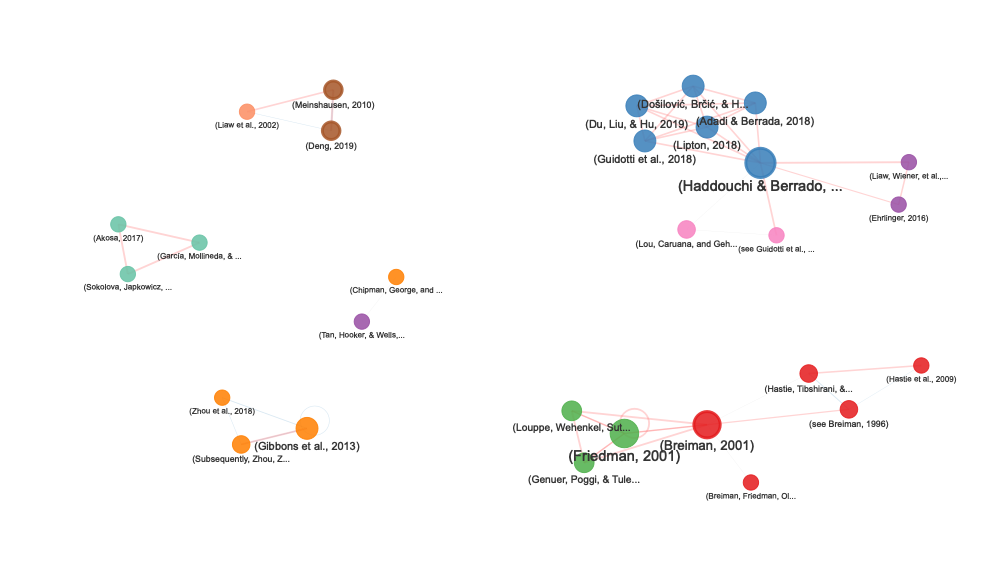
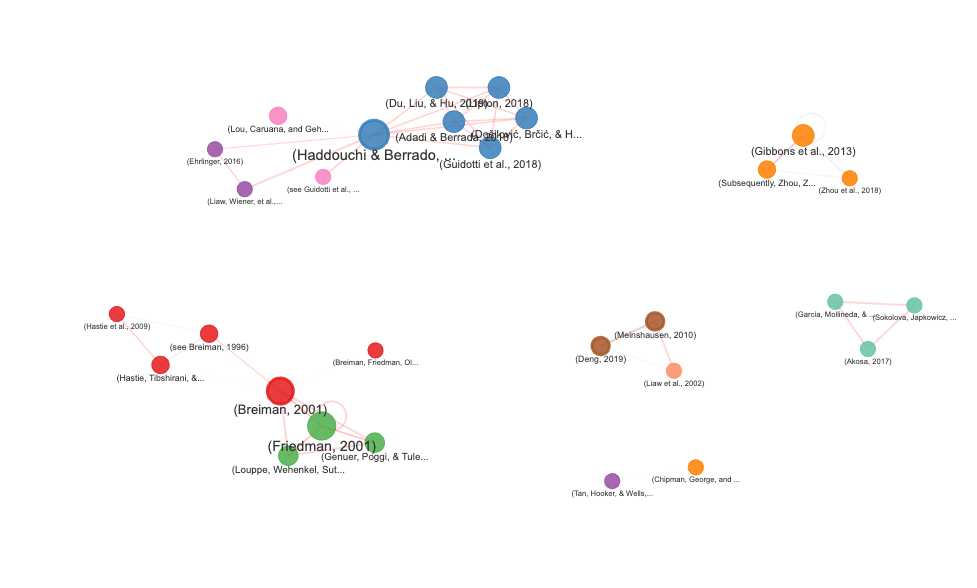
1.1.0.9000

diff --git a/README.md b/README.md
@@ -258,7 +258,7 @@ analysis <- analyze_scientific_content(
 #> Attempting to retrieve references from CrossRef...
 #> Successfully retrieved 33 references from CrossRef
 #> Fetching Open Access metadata for 14 DOIs from OpenAlex...
-#> Successfully retrieved metadata for 13 references from OpenAlex
+#> Successfully retrieved metadata for 14 references from OpenAlex
 #> Enriching CrossRef references with 32 PDF-parsed entries...
 #> Enriched 10 CrossRef references with PDF-parsed data
 ```
@@ -306,14 +306,14 @@ analysis$summary
 #> [1] 33
 #> 
 #> $citations_matched_to_refs
-#> [1] 43
+#> [1] 41
 #> 
 #> $match_quality
 #> # A tibble: 2 × 3
 #>   match_confidence     n percentage
 #>   <chr>            <int>      <dbl>
-#> 1 high                43       87.8
-#> 2 no_match_author      6       12.2
+#> 1 high                41       83.7
+#> 2 no_match_author      8       16.3
 #> 
 #> $citation_type_used
 #> [1] "author_year"
@@ -485,15 +485,15 @@ cluster_desc$cluster_summary
 #>    section                         n_references top_terms                       
 #>    <chr>                                  <int> <chr>                           
 #>  1 Introduction                               5 learning, bagging, bagging pred…
-#>  2 Related work                               8 interpretable machine, black, b…
+#>  2 Related work                               7 interpretable machine, interpre…
 #>  3 Random forest extra information            5 forests, random forests, annals…
 #>  4 Visualization toolkits                     4 tree, forests, random forests, …
 #>  5 Size reduction                             4 adaptive, adaptive diagnostic, …
 #>  6 Rule extraction                            2 annals applied, applied, applie…
-#>  7 Local explanation                          3 black, black box, box, models, …
+#>  7 Local explanation                          2 box classifiers, classification…
 #>  8 Comparison study                           1 annals applied, applied, applie…
 #>  9 Experimental design                        3 bell, bell laboratories, labora…
-#> 10 Analysis                                   3 domains, domains acm, imbalance…
+#> 10 Analysis                                   3 acm computing, computing survey…
 
 # View detailed TF-IDF scores
 cluster_desc$cluster_descriptions
@@ -746,7 +746,7 @@ head(analysis$citation_references_mapping[, c("citation_text_clean", "ref_author
 table(analysis$citation_references_mapping$match_confidence)
 #> 
 #>            high no_match_author 
-#>              43               6
+#>              41               8
 ```
 
 ### Finding citations to specific authors
@@ -773,8 +773,8 @@ if (!is.null(analysis$references_oa)) {
   # Analyze citation impact
   summary(analysis$references_oa$cited_by_count)
 }
-#>    Min. 1st Qu.  Median    Mean 3rd Qu.    Max. 
-#>     100     205    1062   12536    5452  120863
+#>     Min.  1st Qu.   Median     Mean  3rd Qu.     Max. 
+#>    101.0    207.2   1153.5  12252.6   5411.2 123905.0
 ```
 
 ### Citations by section
